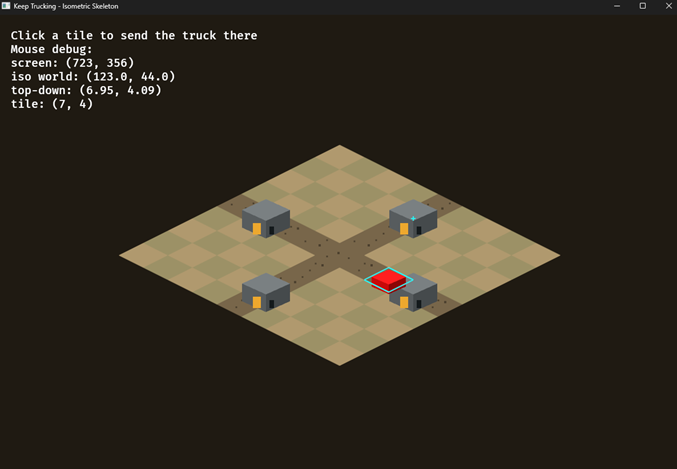
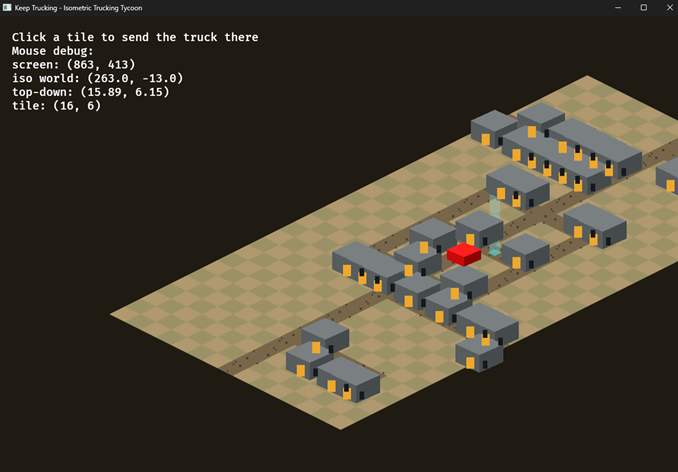
Enhance TownMap structure with building specifications and update building retrieval logic

diff --git a/src/world.rs b/src/world.rs
@@ -5,6 +5,9 @@ use std::collections::{HashMap, HashSet, VecDeque};
 
 pub const TILE_WIDTH: f32 = 54.0;
 pub const TILE_HEIGHT: f32 = 27.0;
+const BUILDING_HALF_WIDTH: f32 = 42.0;
+const BUILDING_HALF_HEIGHT: f32 = 35.0;
+const BUILDING_GAP: f32 = 2.0;
 
 const SMALL_TOWN_ASCII: &str = include_str!("../assets/maps/small_town.txt");
 
@@ -13,6 +16,7 @@ pub struct TownMap {
     width: i32,
     height: i32,
     roads: HashSet<IVec2>,
+    buildings: Vec<BuildingSpec>,
 }
 
 impl TownMap {
@@ -31,6 +35,7 @@ impl TownMap {
         }
 
         let mut roads = HashSet::new();
+        let mut building_tiles = Vec::new();
         for (y, row) in rows.iter().enumerate() {
             if row.chars().count() != width {
                 return Err(format!("map row {} has a different width", y + 1));
@@ -41,11 +46,45 @@ impl TownMap {
                     '#' => {
                         roads.insert(IVec2::new(x as i32, y as i32));
                     }
+                    'R' | 'B' => {
+                        let kind = if tile == 'R' {
+                            BuildingKind::Residence
+                        } else {
+                            BuildingKind::Business
+                        };
+                        building_tiles.push((IVec2::new(x as i32, y as i32), kind));
+                    }
                     other => {
                         return Err(format!(
-                            "unsupported map tile '{other}' at ({x}, {y}); use '.' or '#'"
+                            "unsupported map tile '{other}' at ({x}, {y}); use '.', '#', 'R', or 'B'"
                         ));
                     }
+                }
+            }
+        }
+
+        let entrance_directions = [IVec2::NEG_Y, IVec2::Y, IVec2::NEG_X, IVec2::X];
+        let mut buildings = Vec::with_capacity(building_tiles.len());
+        for (grid, kind) in building_tiles {
+            let entrance = entrance_directions
+                .into_iter()
+                .map(|direction| grid + direction)
+                .find(|neighbor| roads.contains(neighbor))
+                .ok_or_else(|| format!("building at {grid} has no adjacent road entrance"))?;
+            buildings.push(BuildingSpec {
+                grid,
+                entrance,
+                kind,
+            });
+        }
+
+        for (index, first) in buildings.iter().enumerate() {
+            for second in buildings.iter().skip(index + 1) {
+                if building_bounds_touch(first, second) {
+                    return Err(format!(
+                        "buildings at {} and {} are too close; leave a clear gap",
+                        first.grid, second.grid
+                    ));
                 }
             }
         }
@@ -54,12 +93,19 @@ impl TownMap {
             width: width as i32,
             height: rows.len() as i32,
             roads,
+            buildings,
         })
     }
 
     pub fn center(&self) -> IVec2 {
         IVec2::new(self.width / 2, self.height / 2)
     }
+}
+
+fn building_bounds_touch(first: &BuildingSpec, second: &BuildingSpec) -> bool {
+    let delta = top_down_to_iso((first.grid - second.grid).as_vec2());
+    delta.x.abs() < BUILDING_HALF_WIDTH * 2.0 + BUILDING_GAP
+        && delta.y.abs() < BUILDING_HALF_HEIGHT * 2.0 + BUILDING_GAP
 }
 
 #[allow(dead_code)] // Concrete is reserved for the progression/unlock system.
@@ -78,30 +124,18 @@ pub struct RoadNetwork {
 #[derive(Component, Clone, Copy)]
 pub struct Building;
 
+#[derive(Component, Clone, Copy, Debug, Eq, PartialEq)]
+pub enum BuildingKind {
+    Residence,
+    Business,
+}
+
 #[derive(Clone, Copy)]
 pub struct BuildingSpec {
     pub grid: IVec2,
     pub entrance: IVec2,
+    pub kind: BuildingKind,
 }
-
-const BUILDINGS: [BuildingSpec; 4] = [
-    BuildingSpec {
-        grid: IVec2::new(3, 3),
-        entrance: IVec2::new(4, 3),
-    },
-    BuildingSpec {
-        grid: IVec2::new(9, 1),
-        entrance: IVec2::new(10, 1),
-    },
-    BuildingSpec {
-        grid: IVec2::new(14, 5),
-        entrance: IVec2::new(14, 4),
-    },
-    BuildingSpec {
-        grid: IVec2::new(17, 9),
-        entrance: IVec2::new(17, 10),
-    },
-];
 
 pub fn draw_bg(
     commands: &mut Commands,
@@ -199,12 +233,12 @@ pub fn is_road(map: &TownMap, grid: IVec2) -> bool {
     map.roads.contains(&grid)
 }
 
-pub fn building_specs() -> &'static [BuildingSpec] {
-    &BUILDINGS
+pub fn building_specs(map: &TownMap) -> &[BuildingSpec] {
+    &map.buildings
 }
 
-pub fn building_at(grid: IVec2) -> Option<BuildingSpec> {
-    BUILDINGS
+pub fn building_at(map: &TownMap, grid: IVec2) -> Option<BuildingSpec> {
+    map.buildings
         .iter()
         .copied()
         .find(|building| building.grid == grid)
@@ -285,11 +319,12 @@ pub fn draw_buildings(
     let shop_material = materials.add(ColorMaterial::from(Color::srgb(0.93, 0.66, 0.18)));
     let person_material = materials.add(ColorMaterial::from(Color::srgb(0.08, 0.10, 0.11)));
 
-    for spec in building_specs() {
+    for spec in building_specs(map) {
         let building = commands
             .spawn((
                 Transform::from_translation(grid_to_world(map, spec.grid).extend(2.0)),
                 Building,
+                spec.kind,
             ))
             .id();
         let top = commands
@@ -420,6 +455,25 @@ mod tests {
         assert!(is_road(&map, IVec2::new(30, 7)));
         assert!(is_road(&map, IVec2::new(16, 4)));
         assert!(!is_road(&map, IVec2::new(0, 0)));
+        assert_eq!(
+            map.buildings
+                .iter()
+                .filter(|building| building.kind == BuildingKind::Residence)
+                .count(),
+            4
+        );
+        assert_eq!(
+            map.buildings
+                .iter()
+                .filter(|building| building.kind == BuildingKind::Business)
+                .count(),
+            7
+        );
+        assert!(
+            map.buildings
+                .iter()
+                .all(|building| is_road(&map, building.entrance))
+        );
     }
 
     #[test]

diff --git a/src/truck.rs b/src/truck.rs
@@ -115,7 +115,7 @@ pub fn update_clicks(
         return;
     };
     let clicked = world::world_to_grid(map, world_cursor);
-    let target = world::building_at(clicked)
+    let target = world::building_at(map, clicked)
         .map(|building| building.entrance)
         .or_else(|| world::is_road(map, clicked).then_some(clicked));
     let Some(target) = target else { return };